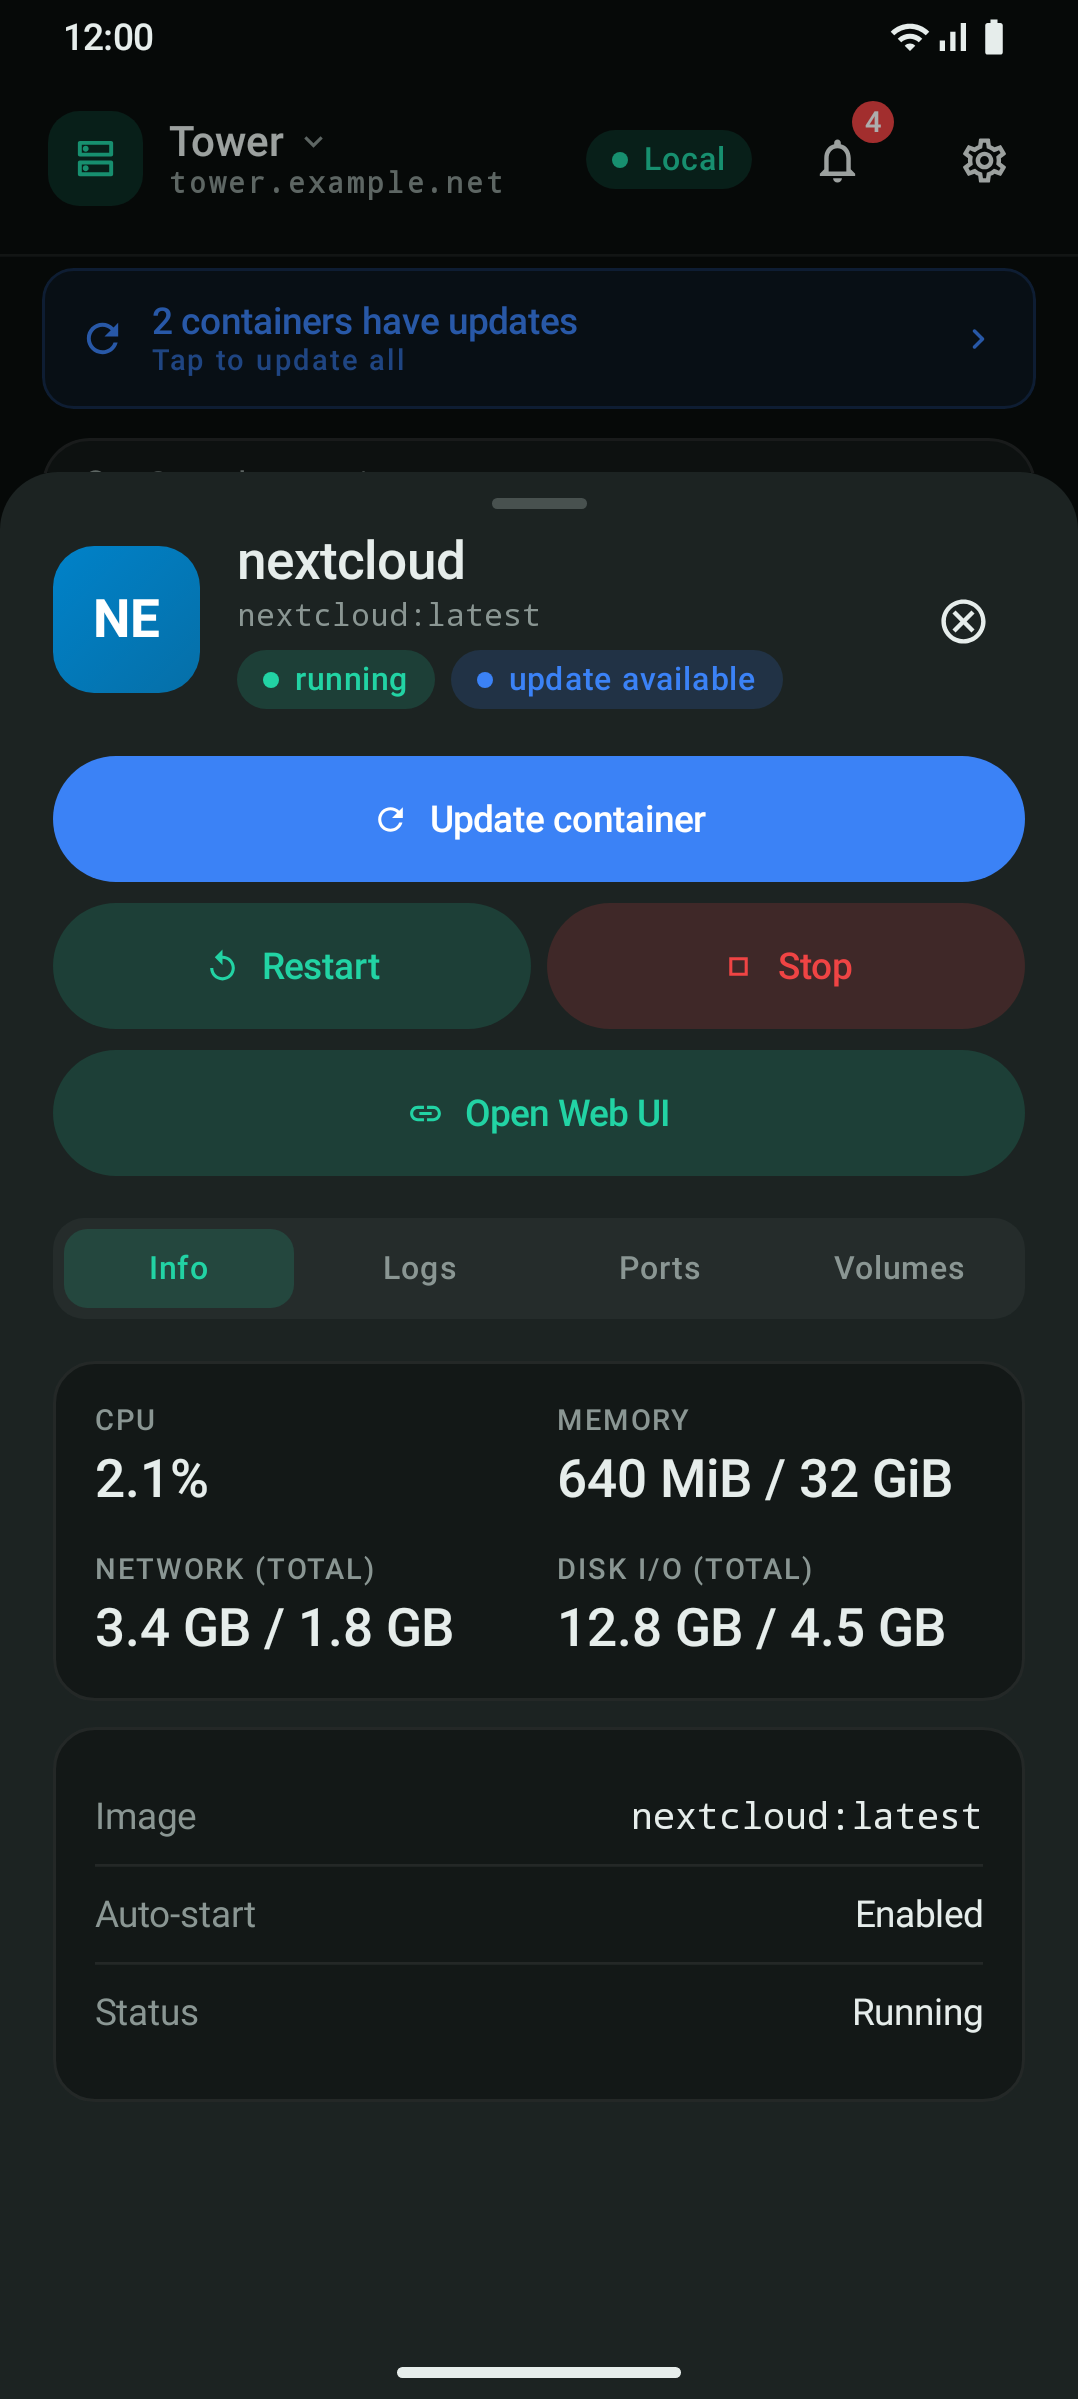
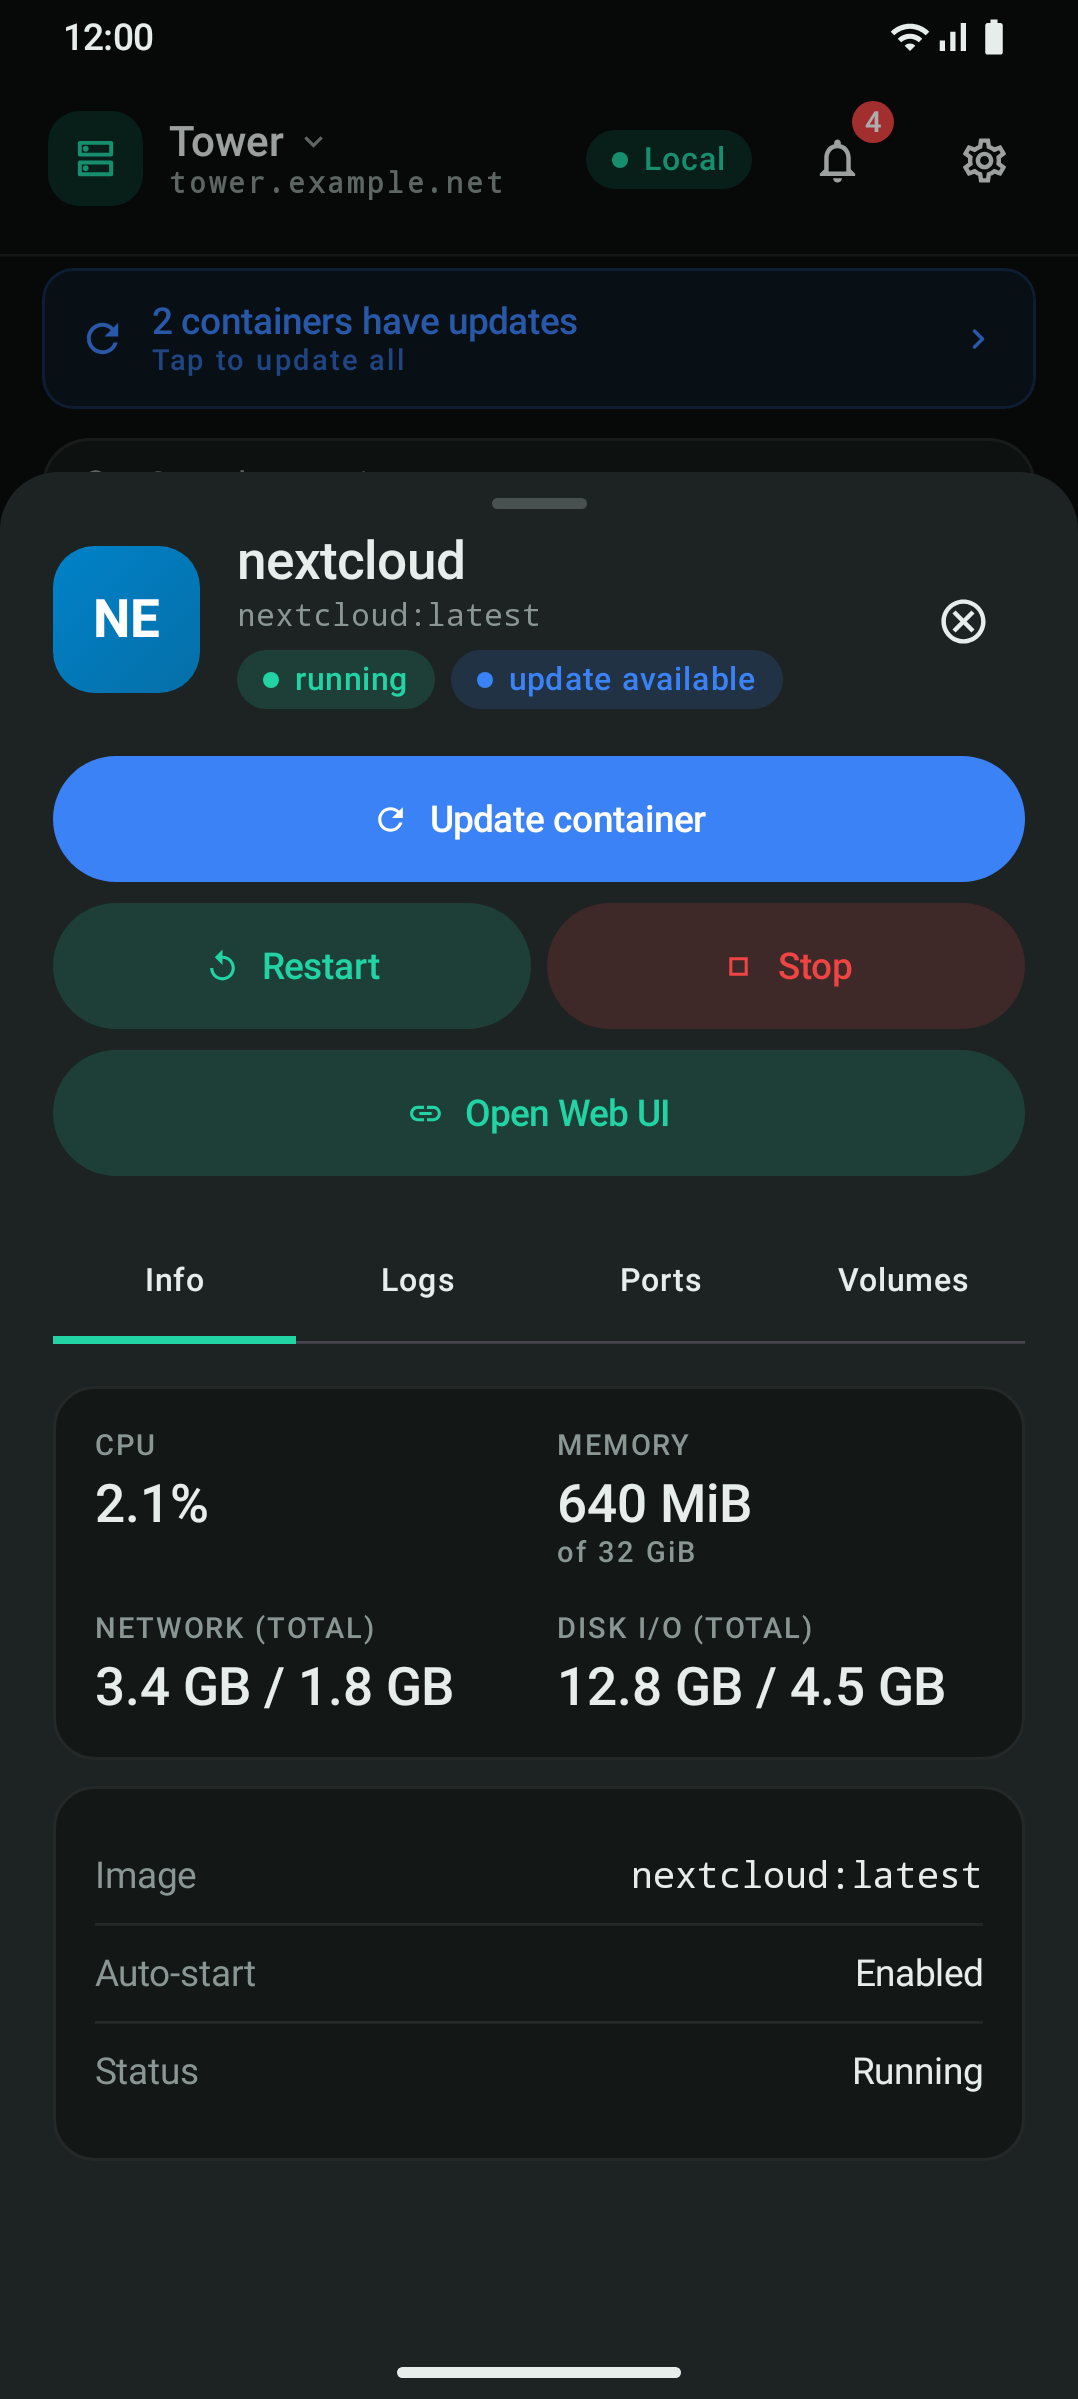
release: v0.1.42-beta1 — failed actions explain themselves, trust hardening, fresh screenshots (#238)
Version 0.1.42-beta1 (versionCode 119), regenerated store screenshots
and README images (demo server instead of real LAN data), CHANGELOG
cleanup.

diff --git a/CHANGELOG.md b/CHANGELOG.md
@@ -9,18 +9,13 @@ GitHub's auto "What's Changed" + compare link are appended below it
 (ADR-0010 / ADR-0031).
 
 Contributor rule: every PR that changes user-facing behaviour adds a
-bullet under `## [Unreleased]` in the right group (`Added` / `Changed` /
-`Fixed`). The version-bump PR (ADR-0015) renames `[Unreleased]` to the
-release version + date and opens a fresh `[Unreleased]`.
+bullet under `## [Unreleased]
 
-## [Unreleased]
+## [0.1.42-beta1] - 2026-11-10
 
-### Fixed
-- **Network interfaces screen no longer shows blank hardware fields** —
-  vendor, model, link speed and the virtual flag are only available with a
-  third-party API plugin; rows without data are now left out instead of
-  shown empty. On a stock API the Hardware block still shows the MAC
-  address (#223).
+Beta: actions that fail now tell you why, safer VM and container controls, live network speed on current Unraid API versions, and a hardened self-signed-certificate and key-storage path. Please test against a real server before it is promoted to stable.
+
+### Changed
 - **Container details tabs are accessible** — the Info/Logs/Ports/Volumes
   tabs now use the standard Material tab bar, so screen readers announce
   them as tabs with the selected one marked and the touch targets are at
@@ -33,9 +28,6 @@ release version + date and opens a fresh `[Unreleased]`.
 - **Logs tab explains an empty log** — a running container with no log
   lines now says it may be logging to stderr, which the Unraid API does not
   return yet, instead of a bare "No log lines." (#225).
-- **No more background polling** — Settings → Server plugins, Network
-  interfaces and the container Logs tab kept refreshing from the server
-  while the app was in the background; they now pause until you return.
 - **Confirmation before Restart, Update and VM Reboot** — restarting or
   updating a single container and rebooting a VM now ask first, like Stop
   already did (#229).
@@ -44,6 +36,16 @@ release version + date and opens a fresh `[Unreleased]`.
   Unraid powers the VM off if the guest has not shut down within about 10
   seconds. "Force stop" powers off immediately, as before, behind its own
   confirmation.
+
+### Fixed
+- **Network interfaces screen no longer shows blank hardware fields** —
+  vendor, model, link speed and the virtual flag are only available with a
+  third-party API plugin; rows without data are now left out instead of
+  shown empty. On a stock API the Hardware block still shows the MAC
+  address (#223).
+- **No more background polling** — Settings → Server plugins, Network
+  interfaces and the container Logs tab kept refreshing from the server
+  while the app was in the background; they now pause until you return.
 - **Failed actions now tell you why** — stopping a container or VM, array and
   parity actions and notification actions failed silently when the server was
   unreachable or refused them (for example an API key without permission):
@@ -62,11 +64,6 @@ release version + date and opens a fresh `[Unreleased]`.
 - **Live stats for every container** (#224) — on current Unraid API versions
   one container per refresh never got live CPU/memory/IO numbers because the
   server sent its id with terminal control characters attached.
-||||||| parent of 4676e94 (fix(vms): make Stop a graceful shutdown, keep Force stop separate)
-||||||| parent of 1ab2b8b (fix(ui): confirm VM Stop, scope privacy wording, review follow-ups)
-- **VM "Stop" now shuts the VM down gracefully** — it used to cut the power
-  (#228). Stop asks the guest to shut down cleanly; the old behaviour is
-  now a separate "Force stop" button, still behind a confirmation.
 - **Network card shows speed on Unraid 4.35 and newer** — the Overview's
   network card showed no speed on Unraid API 4.35 and newer; it now does
   (related to #217). Live network speed needs Unraid API 4.35 or newer.

diff --git a/HANDOFF.md b/HANDOFF.md
@@ -63,6 +63,7 @@ Native Android client for Unraid NAS servers (Kotlin + Jetpack Compose, Apollo G
 | **v0.1.37** | **release** | Stable promotion of the 0.1.37 cycle — build-config-only `dependenciesInfo {}` block to strip AGP's "Dependency metadata" extra signing block (unblocks F-Droid `check apk`) |
 | v0.1.38-beta1 | pre-release | UI: tap-affordance chevrons on Docker/VM cards (list+grid) + expand-chevron on Plugins-ops + Network-interface rows |
 | **v0.1.38** | **release** | Stable promotion of the 0.1.38 cycle — UI tap-affordance chevrons on Docker/VM cards (list+grid) + expand-chevron on Plugins-ops + Network-interface rows **(Latest)** |
+| v0.1.42-beta1 | pre-release | Beta: failed actions show why, graceful VM stop + confirmations, network speed on stock Unraid API 4.35+, no background polling, store screenshots |
 
 ## Stack
 

diff --git a/README.md b/README.md
@@ -42,10 +42,6 @@ It talks to your server through the official Unraid API (the Connect plugin's Gr
 |:---:|:---:|:---:|
 | <img src="docs/screenshots/overview.png" width="240" alt="Overview — array, CPU, memory, containers, system"> | <img src="docs/screenshots/docker.png" width="240" alt="Docker — every container with live status"> | <img src="docs/screenshots/container-detail.png" width="240" alt="Container detail — start/stop/restart, Open Web UI"> |
 
-| Container logs | Settings & changelog |
-|:---:|:---:|
-| <img src="docs/screenshots/container-logs.png" width="240" alt="Live container logs"> | <img src="docs/screenshots/settings-changelog.png" width="240" alt="Settings, with the in-app changelog open"> |
-
 </div>
 
 ## What you can do

diff --git a/docs/screenshots/README.md b/docs/screenshots/README.md
@@ -5,7 +5,5 @@ These feed the README. To refresh them, replace the files in place (keep the nam
 - `overview.png` — the Overview tab (array, CPU, memory, network, containers, system)
 - `docker.png` — the Docker tab (container list)
 - `container-detail.png` — a container detail sheet
-- `container-logs.png` — live container logs
-- `settings-changelog.png` — Settings with the in-app changelog open
 
-Portrait, real device or emulator, dark mode (the default), ~1080px wide.
+These are copies of the rendered store screenshots (`fastlane/.../phoneScreenshots/1.png`, `3.png`, `5.png`; demo server, see docs/local-build.md). Portrait, dark mode, ~1080px wide.
